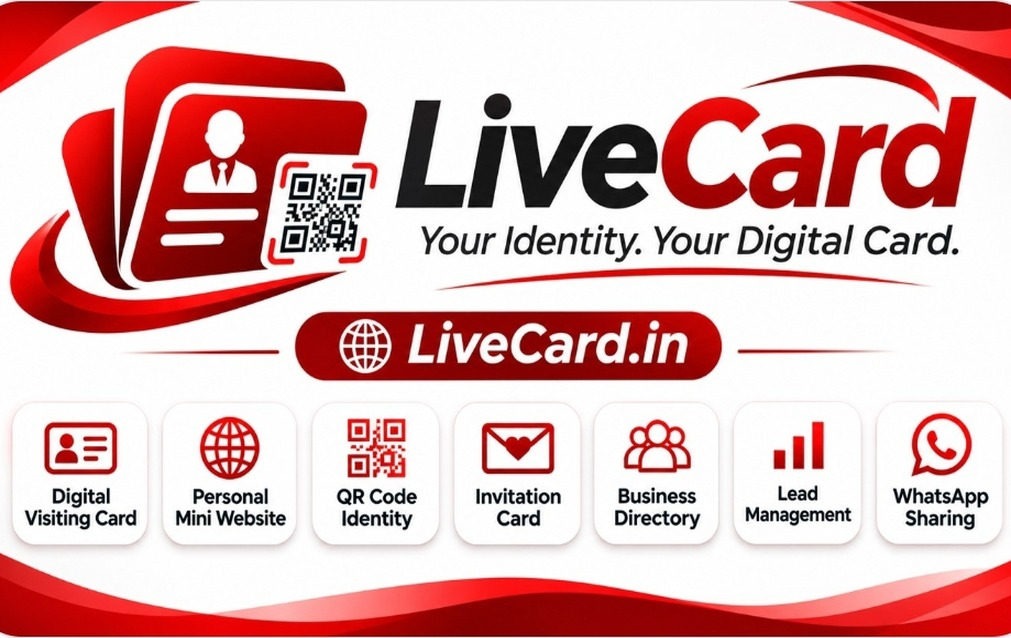
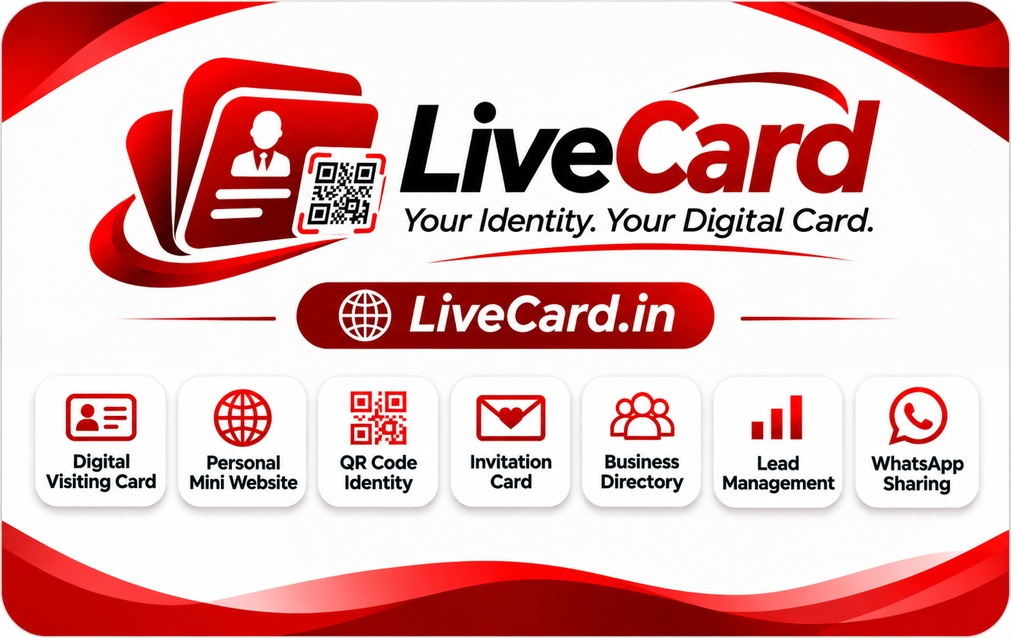
Print Card: use provided front/back design format
Claude-Session: https://claude.ai/code/session_01LzXEQdxikn33sAgkPaq1Gs

diff --git a/public/studio/index.html b/public/studio/index.html
@@ -1314,7 +1314,7 @@ function qrFull(x){var o=document.getElementById('qrfull');if(o)o.remove();var u
   var ln=mk('div','',u.replace(/^https?:\/\//,'').replace('?src=qr',''));ln.style.cssText='font-size:14px;color:#666;word-break:break-all';bd.appendChild(ln);
   var st=document.createElement('img');st.src='/studio/livecard-stamp.png';st.alt='';st.style.cssText='width:96px;height:auto;margin-top:6px;opacity:.95';bd.appendChild(st);
   var dl=tb('⬇ QR डाउनलोड',function(){var du=cv.toDataURL('image/png');if(window.ViNative&&ViNative.save){var r='';try{r=ViNative.save(du.split(',')[1],'livecard-qr-'+Date.now())}catch(e){}dl.textContent=r?'✅ गैलरी में सेव हुआ':'❌ सेव नहीं हुआ';setTimeout(function(){dl.textContent='⬇ QR डाउनलोड'},2500);return}var a=document.createElement('a');a.href=du;a.download='livecard-qr.png';document.body.appendChild(a);a.click();a.remove()});dl.style.cssText+=';background:#fff;color:#d4141c;border:1.5px solid #d4141c;margin-top:4px';bd.appendChild(dl);var cw=mk('div','','Created with LiveCard.in');cw.style.cssText='font-size:15px;font-weight:800;color:#7a0a10;letter-spacing:.3px;margin:6px 0 14px';bd.appendChild(cw);
-  try{sb.rpc('studio_is_admin').then(function(r){if(!(r&&r.data===true))return;var pb=tb('📄 PDF (कार्ड साइज़) · Admin',async function(){pb.disabled=true;pb.textContent='⏳ बन रहा है…';try{if(!window.LCPrint){await new Promise(function(res,rej){var s2=document.createElement('script');s2.src='/studio/printcard.js?v=2';s2.onload=res;s2.onerror=rej;document.head.appendChild(s2)})}var rr2=await LCPrint.pdf([x],'livecard-'+x.slug);pb.textContent=rr2==='saved'?'✅ PDF सेव हुआ':rr2==='png'?'✅ गैलरी में सेव (फ़ोटो)':'❌ नहीं हुआ'}catch(e){pb.textContent='❌ नहीं हुआ'}pb.disabled=false;setTimeout(function(){pb.textContent='📄 PDF (कार्ड साइज़) · Admin'},3000)});pb.style.cssText+=';background:#7a0a10;margin-top:4px';bd.insertBefore(pb,dl.nextSibling);var pl=document.createElement('a');pl.href='/studio/printcard/';pl.textContent='🖨 सभी कार्ड प्रिंट करें';pl.style.cssText='color:#7a0a10;font-weight:700';bd.insertBefore(pl,pb.nextSibling)})}catch(e){}
+  try{sb.rpc('studio_is_admin').then(function(r){if(!(r&&r.data===true))return;var pb=tb('📄 PDF (कार्ड साइज़) · Admin',async function(){pb.disabled=true;pb.textContent='⏳ बन रहा है…';try{if(!window.LCPrint){await new Promise(function(res,rej){var s2=document.createElement('script');s2.src='/studio/printcard.js?v=3';s2.onload=res;s2.onerror=rej;document.head.appendChild(s2)})}var rr2=await LCPrint.pdf([x],'livecard-'+x.slug);pb.textContent=rr2==='saved'?'✅ PDF सेव हुआ':rr2==='png'?'✅ गैलरी में सेव (फ़ोटो)':'❌ नहीं हुआ'}catch(e){pb.textContent='❌ नहीं हुआ'}pb.disabled=false;setTimeout(function(){pb.textContent='📄 PDF (कार्ड साइज़) · Admin'},3000)});pb.style.cssText+=';background:#7a0a10;margin-top:4px';bd.insertBefore(pb,dl.nextSibling);var pl=document.createElement('a');pl.href='/studio/printcard/';pl.textContent='🖨 सभी कार्ड प्रिंट करें';pl.style.cssText='color:#7a0a10;font-weight:700';bd.insertBefore(pl,pb.nextSibling)})}catch(e){}
   o.appendChild(bd);document.body.style.overflow='hidden';document.body.appendChild(o)}
 function hqrInit(){var b=$('hqr');if(!b)return;b.hidden=!qrCard();b.onclick=function(){var x=qrCard();if(!x){alert('पहले कार्ड प्रकाशित करें।');return}qrFull(x)}}
 async function myHome(){try{hqrInit()}catch(e){}try{pfPlan()}catch(e){}try{pfSett()}catch(e){}try{$('pf-cardact').textContent=''}catch(e){}

diff --git a/public/studio/printcard.js b/public/studio/printcard.js
@@ -8,21 +8,15 @@ function rr(ctx,x,y,w,h,r){ctx.beginPath();ctx.moveTo(x+r,y);ctx.arcTo(x+w,y,x+w
 function nameOf(c){var t=String(c.title||'').trim();return (!t||/^(visiting\s*card|विज़िटिंग\s*कार्ड|विजिटिंग\s*कार्ड)$/i.test(t))?'LiveCard':t}
 async function draw(c){var cv=document.createElement('canvas');cv.width=W;cv.height=H;var x=cv.getContext('2d');
   var url='https://livecard.in/v/'+c.slug;
-  x.fillStyle='#fff7f4';x.fillRect(0,0,W,H);
-  x.strokeStyle='#e8c9c4';x.lineWidth=3;rr(x,6,6,W-12,H-12,34);x.stroke();
-  var lg=await img('/studio/livecard-logo.png'),st=await img('/studio/livecard-stamp.png');
-  if(lg){var lh=118,lw=lg.width*lh/lg.height;x.drawImage(lg,(W-lw)/2,34,lw,lh)}
-  x.textAlign='center';x.textBaseline='alphabetic';
-  var tg='Visiting Card नहीं, अब LiveCard';fit(x,tg,W-60,38,'800');x.fillStyle='#d4141c';x.fillText(tg,W/2,200);
-  var nm=nameOf(c);fit(x,nm,W-60,44,'800');x.fillStyle='#7a0a10';x.fillText(nm,W/2,258);
+  var bg=await img('/studio/livecard-card-front.jpg?v=2');
+  if(bg)x.drawImage(bg,0,0,W,H);else{x.fillStyle='#fff';x.fillRect(0,0,W,H)}
+  x.textAlign='center';x.textBaseline='middle';
+  var nm=nameOf(c);fit(x,nm,520,46,'800');x.fillStyle='#7a0a10';x.fillText(nm,W/2,229);
   var q=document.createElement('canvas');window.StudioQR.draw(q,url,900);
-  var bs=440,bx=(W-bs)/2,by=284;x.save();x.shadowColor='rgba(122,10,16,.22)';x.shadowBlur=24;x.shadowOffsetY=8;x.fillStyle='#fff';rr(x,bx,by,bs,bs,34);x.fill();x.restore();
-  x.imageSmoothingEnabled=false;var qs=bs-40;x.drawImage(q,bx+20,by+20,qs,qs);x.imageSmoothingEnabled=true;
-  var ln=url.replace(/^https?:\/\//,'');fit(x,ln,W-60,30,'700');x.fillStyle='#555';x.fillText(ln,W/2,by+bs+48);
-  if(st){var ss=136;x.drawImage(st,(W-ss)/2,by+bs+66,ss,ss)}
-  fit(x,'Created with LiveCard.in',W-60,30,'800');x.fillStyle='#7a0a10';x.fillText("Created with LiveCard.in",W/2,H-34);
+  x.imageSmoothingEnabled=false;var qs=352;x.drawImage(q,(W-qs)/2,540-qs/2,qs,qs);x.imageSmoothingEnabled=true;
+  var ln=url.replace(/^https?:\/\//,'');fit(x,ln,470,30,'700');x.fillStyle='#333';x.fillText(ln,W/2,753);
   return cv}
-var _bk=null;async function back(){if(_bk)return _bk;var b=await img('/studio/livecard-card-back.jpg?v=1');if(!b)return null;var cv=document.createElement('canvas');cv.width=W;cv.height=H;var x=cv.getContext('2d');
+var _bk=null;async function back(){if(_bk)return _bk;var b=await img('/studio/livecard-card-back.jpg?v=2');if(!b)return null;var cv=document.createElement('canvas');cv.width=W;cv.height=H;var x=cv.getContext('2d');
   x.translate(W/2,H/2);x.rotate(-Math.PI/2);x.drawImage(b,-H/2,-W/2,H,W);_bk=cv.toDataURL('image/jpeg',0.95);return _bk}
 function loadPdf(){return new Promise(function(res,rej){if(window.jspdf)return res(window.jspdf);var s=document.createElement('script');s.src='https://cdnjs.cloudflare.com/ajax/libs/jspdf/2.5.1/jspdf.umd.min.js';s.onload=function(){res(window.jspdf)};s.onerror=rej;document.head.appendChild(s)})}
 async function pdf(cards,name){var J=await loadPdf();var doc=new J.jsPDF({unit:'mm',format:[53.98,85.6],orientation:'portrait',compress:true});

diff --git a/public/studio/printcard/index.html b/public/studio/printcard/index.html
@@ -22,7 +22,7 @@ input[type=checkbox]{width:22px;height:22px;margin:0;flex:none}
 <main id="m"><p class="mut">लोड हो रहा है…</p></main>
 <div id="pv"></div>
 <script src="https://cdn.jsdelivr.net/npm/@supabase/supabase-js@2"></script>
-<script src="/studio/qr.js"></script><script src="/studio/printcard.js?v=2"></script>
+<script src="/studio/qr.js"></script><script src="/studio/printcard.js?v=3"></script>
 <script>
 (async function(){
 var $=function(i){return document.getElementById(i)},m=$('m');
